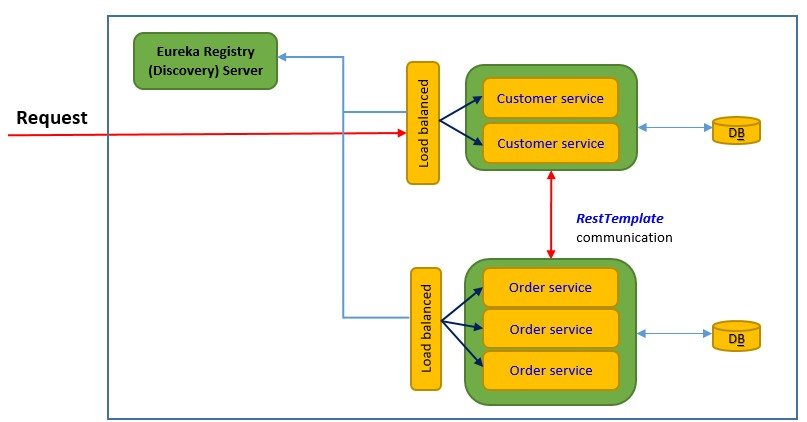
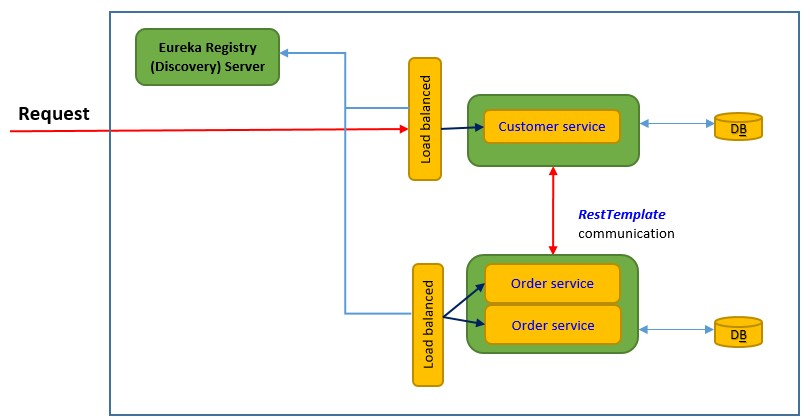
10-03-2026 19:40

Changed region(s): [[0.0, 0.0, 0.9913, 1.0]]

diff --git a/src/pages/MicroServices/MicroServiceComponents/M1_ArchitectureSpringBoot2Pkg/O2_Eureka_2_7_18_Sections/O7_TestEureka2718.tsx b/src/pages/MicroServices/MicroServiceComponents/M1_ArchitectureSpringBoot2Pkg/O2_Eureka_2_7_18_Sections/O7_TestEureka2718.tsx
@@ -1,4 +1,7 @@
-import { Li, MainChildArea, ULdisc } from "../../../../../components";
+import { IMG, Li, MainChildArea, ULdisc } from "../../../../../components";
+import microservice_12 from "../../../../../assets/microservice_12.jpg";
+import microservice_8 from "../../../../../assets/microservice_8.jpg";
+import { JavaHighlight, SpanYellow } from "../../../../../components/Highlight";
 
 const O7_TestEureka2718 = ({ anchor }: { anchor: string }) => {
   return (
@@ -6,8 +9,52 @@ const O7_TestEureka2718 = ({ anchor }: { anchor: string }) => {
       <section className="my-8">
         <article className="my-8">
           <p className="my-8 text-xl">✅ Test Eureka , Customer , Order and LoadBalancer</p>
+
           <ULdisc>
-            <Li></Li>
+            <Li>
+              Clone git project
+              <a
+                className="mx-4 list-disc tracking-wider text-blue-500 hover:text-blue-700"
+                href="https://github.com/sshalem/MicroServices/tree/main"
+                target="_blank"
+              >
+                https://github.com/sshalem/MicroServices
+              </a>
+            </Li>
+            <Li>
+              Open <SpanYellow>IntelliJ</SpanYellow> and open Project <SpanYellow>O2-C-O-Eureka-RestTemplate</SpanYellow> , located in folder
+              <SpanYellow>_3_microservices_2_7_18_JDK17</SpanYellow>
+            </Li>
+            <Li>Postman send request only to Customer-service with Port 8001, thus</Li>
+            <Li>Thus (At this point) , only one Instance of customer-service required</Li>
+            <Li>I created 2 instances of order-service</Li>
+            <Li>
+              In order to see which port of order-service runs , add following code :
+              <JavaHighlight javaCode={_1_} />
+            </Li>
+          </ULdisc>
+          <IMG img_name={microservice_12}></IMG>
+        </article>
+        <article className="my-8">
+          <ULdisc>
+            <Li>Let's Run the Projects and test with postman some of the HTTP request that are beteween Customer to Order</Li>
+            <Li>
+              I will test 3 end points which are:
+              <ULdisc>
+                <Li>
+                  <SpanYellow>http://localhost:8001/customer/create</SpanYellow> - Tests only Customer API endpint URL
+                </Li>
+                <Li>
+                  <SpanYellow>http://localhost:8001/customer/karin/addOrder</SpanYellow> - Tests communication between Customer to Order MicServ
+                </Li>
+                <Li>
+                  <SpanYellow>http://localhost:8001/customer/karin/orders</SpanYellow> - Tests communication between Customer to Order MicServ
+                </Li>
+                <Li>
+                  Run both services , send Via Postman and see it works <IMG img_name={microservice_8}></IMG>
+                </Li>
+              </ULdisc>
+            </Li>
           </ULdisc>
         </article>
       </section>
@@ -16,3 +63,9 @@ const O7_TestEureka2718 = ({ anchor }: { anchor: string }) => {
 };
 
 export default O7_TestEureka2718;
+
+const _1_ = `    @Value("$/{server.port}")
+    private String port;
+    
+    # add  sout for port
+    # System.out.println("server.port : " + port);`;

diff --git a/src/pages/MicroServices/MicroServiceComponents/M1_ArchitectureSpringBoot2Pkg/O2_Eureka_2_7_18_Sections/O6_LoadBalancer2718.tsx b/src/pages/MicroServices/MicroServiceComponents/M1_ArchitectureSpringBoot2Pkg/O2_Eureka_2_7_18_Sections/O6_LoadBalancer2718.tsx
@@ -1,12 +1,12 @@
 import { Li, MainChildArea, ULdisc } from "../../../../../components";
-import { JavaHighlight, SpanYellow } from "../../../../../components/Highlight";
+import { ApplicationPropertiesHighlight, JavaHighlight, SpanRed, SpanYellow } from "../../../../../components/Highlight";
 
 const O6_LoadBalancer2718 = ({ anchor }: { anchor: string }) => {
   return (
     <MainChildArea anchor={anchor}>
       <section className="my-8">
         <article className="my-8">
-          <p className="text-lg">✅ @LoadBalanced</p>
+          <p className="text-xl font-semibold">1⃣ @LoadBalanced</p>
           <ULdisc>
             <Li>
               Since we already have <SpanYellow>spring-cloud-starter-netflix-eureka-client</SpanYellow> we can use Load Balanver
@@ -19,29 +19,51 @@ const O6_LoadBalancer2718 = ({ anchor }: { anchor: string }) => {
           </ULdisc>
         </article>
       </section>
+
+      <hr />
+
+      <section className="my-8">
+        <article className="my-8">
+          <p className="text-xl font-semibold">2⃣ Modify url from localhost to service name </p>
+          <ULdisc>
+            <Li>
+              When I add <SpanYellow>@LoadBalanced</SpanYellow> to RestTemplate bean, the URL must use the service name,{" "}
+              <SpanRed>not localhost or a fixed host</SpanRed>.
+            </Li>
+            <Li>
+              <SpanYellow>@LoadBalanced</SpanYellow> tells Spring , Resolve the host part of the URL using the service registry and choose an instance
+              automatically.
+            </Li>
+            <Li>
+              Instead of:
+              <JavaHighlight javaCode={_2_} />
+            </Li>
+            <Li>
+              Use the service name from application properties <ApplicationPropertiesHighlight propertiesCode={_3_} />
+            </Li>
+            <Li>
+              So the request becomes:
+              <JavaHighlight javaCode={_4_} />
+            </Li>
+          </ULdisc>
+        </article>
+      </section>
     </MainChildArea>
   );
 };
 
 export default O6_LoadBalancer2718;
 
-const _1_ = `import org.modelmapper.ModelMapper;
-import org.springframework.cloud.client.loadbalancer.LoadBalanced;
-import org.springframework.context.annotation.Bean;
-import org.springframework.context.annotation.Configuration;
-import org.springframework.web.client.RestTemplate;
-
-@Configuration
-public class ConfigClass {
-
-    @Bean
-    public ModelMapper getModelMapper() {
-        return new ModelMapper();
-    }
-
-    @Bean
-    @LoadBalanced
-    public RestTemplate restTemplate() {
-        return new RestTemplate();
-    }
+const _1_ = `@Bean
+@LoadBalanced
+public RestTemplate restTemplate() {
+    return new RestTemplate();
 }`;
+
+const _2_ = `String postUrl = "http://localhost:9001/order/add";
+OrdersResponse ordersResponse = restTemplate.postForObject(postUrl, order, OrdersResponse.class)`;
+
+const _3_ = `spring.application.name=order-service`;
+
+const _4_ = `String postUrl = "http://order-service/order/add";
+OrdersResponse ordersResponse = restTemplate.postForObject(postUrl, order, OrdersResponse.class)`;

diff --git a/src/pages/MicroServices/MicroServiceComponents/M1_ArchitectureSpringBoot2Pkg/O2_Eureka_2_7_18_Sections/O8_OpenFeignCommunication.tsx b/src/pages/MicroServices/MicroServiceComponents/M1_ArchitectureSpringBoot2Pkg/O2_Eureka_2_7_18_Sections/O8_OpenFeignCommunication.tsx
@@ -1,0 +1,67 @@
+/*
+
+
+*/
+import { Li, MainChildArea, ULdisc } from "../../../../../components";
+import { SpanYellow } from "../../../../../components/Highlight";
+
+const O8_OpenFeignCommunication = ({ anchor }: { anchor: string }) => {
+  return (
+    <MainChildArea anchor={anchor}>
+      <section className="my-8">
+        <article className="my-8 text-xl font-semibold">
+          What is <strong>OpenFeign</strong>
+        </article>
+        <ULdisc>
+          <Li>
+            <SpanYellow>OpenFeign</SpanYellow> is a Java library that simplifies calling REST APIs between services, especially in microservice
+            architectures.
+          </Li>
+          <Li>
+            Instead of writing HTTP client code manually (like with RestTemplate or Spring WebClient):
+            <ULdisc>
+              <Li>you just define a Java interface</Li>
+              <Li>Then, Feign automatically creates the HTTP client implementation.</Li>
+              <Li>It is commonly used with Spring Boot and Spring Cloud.</Li>
+            </ULdisc>
+          </Li>
+        </ULdisc>
+        Why OpenFeign Is Powerful
+      </section>
+
+      <hr />
+
+      <section className="my-8">
+        <article className="my-8 text-xl font-semibold">
+          Why <strong>OpenFeign</strong> Is Powerful
+        </article>
+        <ULdisc>
+          <Li>
+            <SpanYellow>OpenFeign</SpanYellow> is a Java library that simplifies calling REST APIs between services, especially in microservice
+            architectures.
+          </Li>
+          <Li>
+            ✅ Simple way to remember: <SpanYellow>OpenFeign</SpanYellow> = "REST calls between microservices using interfaces instead of HTTP code."
+          </Li>
+          <Li>
+            Instead of writing HTTP client code manually (like with RestTemplate or Spring WebClient):
+            <ULdisc>
+              <Li>you just define a Java interface</Li>
+              <Li>Then, Feign automatically creates the HTTP client implementation.</Li>
+              <Li>It is commonly used with Spring Boot and Spring Cloud.</Li>
+            </ULdisc>
+          </Li>
+        </ULdisc>
+      </section>
+    </MainChildArea>
+  );
+};
+
+export default O8_OpenFeignCommunication;
+
+const _1_ = `spring.application.name=order-service
+
+server.port=9001
+
+#spring.profiles.active=h2
+spring.profiles.active=postgres`;

diff --git a/src/pages/MicroServices/MicroServiceComponents/M1_ArchitectureSpringBoot2Pkg/O2_Eureka_2_7_18_Sections/O2_IntroLoadBalace2718.tsx b/src/pages/MicroServices/MicroServiceComponents/M1_ArchitectureSpringBoot2Pkg/O2_Eureka_2_7_18_Sections/O2_IntroLoadBalace2718.tsx
@@ -12,10 +12,12 @@ const O2_IntroLoadBalace2718 = ({ anchor }: { anchor: string }) => {
             to ensure efficient resource use, high availability, and fault tolerance. It prevents any single service instance from becoming
             overwhelmed and allows the system to scale horizontally to handle increased demand.
           </p>
-          <p className="my-8">the 3 most important load-balancing mechanisms to understand are:</p>
+          <p className="my-8 text-xl font-semibold">
+            ⭐ the 3 most important <SpanYellow>load-balancing mechanisms</SpanYellow> to understand are:
+          </p>
           <ULdisc>
             <Li>
-              1⃣ Spring Cloud LoadBalancer ,The client decides which service instance to call.
+              1⃣ <strong>The client makes Load Balancing</strong> . Spring Cloud LoadBalancer , decides which service instance to call.
               <ULdisc>
                 <Li>Common in microservices using Eureka service discovery.</Li>
                 <Li>
@@ -34,7 +36,7 @@ const O2_IntroLoadBalace2718 = ({ anchor }: { anchor: string }) => {
               </ULdisc>
             </Li>
             <Li>
-              2⃣ API Gateway routing, When using an API gateway, the gateway performs the load balancing.
+              2⃣ <strong>the gateway performs the load balancing</strong> API Gateway routing, When using an API gateway.
               <ULdisc>
                 <Li>acts as the single entry point for all external requests</Li>
                 <Li>integrates with the client-side load balancer</Li>
@@ -42,7 +44,7 @@ const O2_IntroLoadBalace2718 = ({ anchor }: { anchor: string }) => {
               </ULdisc>
             </Li>
             <Li>
-              3⃣ Kafka partition balancing
+              3⃣ <strong>Kafka partition balancing</strong>
               <ULdisc>
                 <Li>In event systems, messages are distributed instead of HTTP requests.</Li>
                 <Li>Kafka uses partition-based load distribution.</Li>

diff --git a/src/pages/MicroServices/MicroServiceComponents/M1_ArchitectureSpringBoot2Pkg/O2_Eureka_2_7_18_Sections/Eureka_2_7_18_Main.tsx b/src/pages/MicroServices/MicroServiceComponents/M1_ArchitectureSpringBoot2Pkg/O2_Eureka_2_7_18_Sections/Eureka_2_7_18_Main.tsx
@@ -7,6 +7,7 @@ import O4_EurekaServer2718 from "./O4_EurekaServer2718";
 import O5_EurekaClient2718 from "./O5_EurekaClient2718";
 import O6_LoadBalancer2718 from "./O6_LoadBalancer2718";
 import O7_TestEureka2718 from "./O7_TestEureka2718";
+import O8_OpenFeignCommunication from "./O8_OpenFeignCommunication";
 
 // =============================================================================================================
 
@@ -15,8 +16,9 @@ const o2_IntroLoadBalace2718 = "2. Intro LoadBalancer";
 const o3_DiagramEureka2718 = "3. Diagram Architecture";
 const o4_EurekaServer2718 = "4. Eureka Server 2.7.18";
 const o5_EurekaClient2718 = "5. Eureka Client 2.7.18";
-const o6_LoadBalancer2718 = "6. @LoadBalancer 2.7.18";
+const o6_LoadBalancer2718 = "6. @LoadBalancer With RestTamplate";
 const o7_TestEureka2718 = "7. Test Eureka With LoadBalanced 2.7.18";
+const o8_OpenFeignCommunication = "8. OpenFeign Communication";
 
 // =============================================================================================================
 
@@ -28,6 +30,7 @@ const anchorList: string[] = [
   o5_EurekaClient2718,
   o6_LoadBalancer2718,
   o7_TestEureka2718,
+  o8_OpenFeignCommunication,
 ];
 
 // =============================================================================================================
@@ -88,6 +91,7 @@ const Eureka_2_7_18_Main = () => {
       <O5_EurekaClient2718 anchor={o5_EurekaClient2718} />
       <O6_LoadBalancer2718 anchor={o6_LoadBalancer2718} />
       <O7_TestEureka2718 anchor={o7_TestEureka2718} />
+      <O8_OpenFeignCommunication anchor={o8_OpenFeignCommunication} />
 
       <div className="my-8 h-4">{/* {this div is only for dividing} */}</div>
     </section>

diff --git a/src/pages/MicroServices/MicroServiceComponents/M1_ArchitectureSpringBoot2Pkg/O2_Eureka_2_7_18_Sections/O3_DiagramEureka2718.tsx b/src/pages/MicroServices/MicroServiceComponents/M1_ArchitectureSpringBoot2Pkg/O2_Eureka_2_7_18_Sections/O3_DiagramEureka2718.tsx
@@ -1,10 +1,19 @@
-import { IMG, MainChildArea } from "../../../../../components";
+import { IMG, Li, MainChildArea, ULdisc } from "../../../../../components";
 import microservice_12 from "../../../../../assets/microservice_12.jpg";
+import { SpanYellow } from "../../../../../components/Highlight";
 
 const O3_DiagramEureka2718 = ({ anchor }: { anchor: string }) => {
   return (
     <MainChildArea anchor={anchor}>
       <section className="my-8">
+        In diagram we see :
+        <ULdisc>
+          <Li>Eureka Discovery server</Li>
+          <Li>I also config Each service (Customer and Order) with Eureka Client</Li>
+          <Li>
+            Since Spring Cloud Load Balancer is part of Eureka CLient , thus <SpanYellow>@LoadBalancing</SpanYellow> is possible
+          </Li>
+        </ULdisc>
         <IMG img_name={microservice_12}></IMG>
       </section>
     </MainChildArea>

diff --git a/src/pages/MicroServices/MicroServiceComponents/M1_ArchitectureSpringBoot2Pkg/O1_CustomerOrderSections/O4_RestTemplateCommunication.tsx b/src/pages/MicroServices/MicroServiceComponents/M1_ArchitectureSpringBoot2Pkg/O1_CustomerOrderSections/O4_RestTemplateCommunication.tsx
@@ -55,13 +55,10 @@ const O4_RestTemplateCommunication = ({ anchor }: { anchor: string }) => {
             <JavaHighlight javaCode={_2_}></JavaHighlight>
           </Li>
           <Li>
-            Create 2 methods , which I use <SpanYellow>RestTemplate</SpanYellow>
+            I have a method that uses <SpanYellow>RestTemplate</SpanYellow>
             <ULdisc>
               <Li>
                 <strong>addOrderToCustomer</strong>
-              </Li>
-              <Li>
-                <strong>getOrdersOfCustomerByFirstName</strong>
               </Li>
               <Li>
                 Let's explain <strong>addOrderToCustomer</strong> code below
